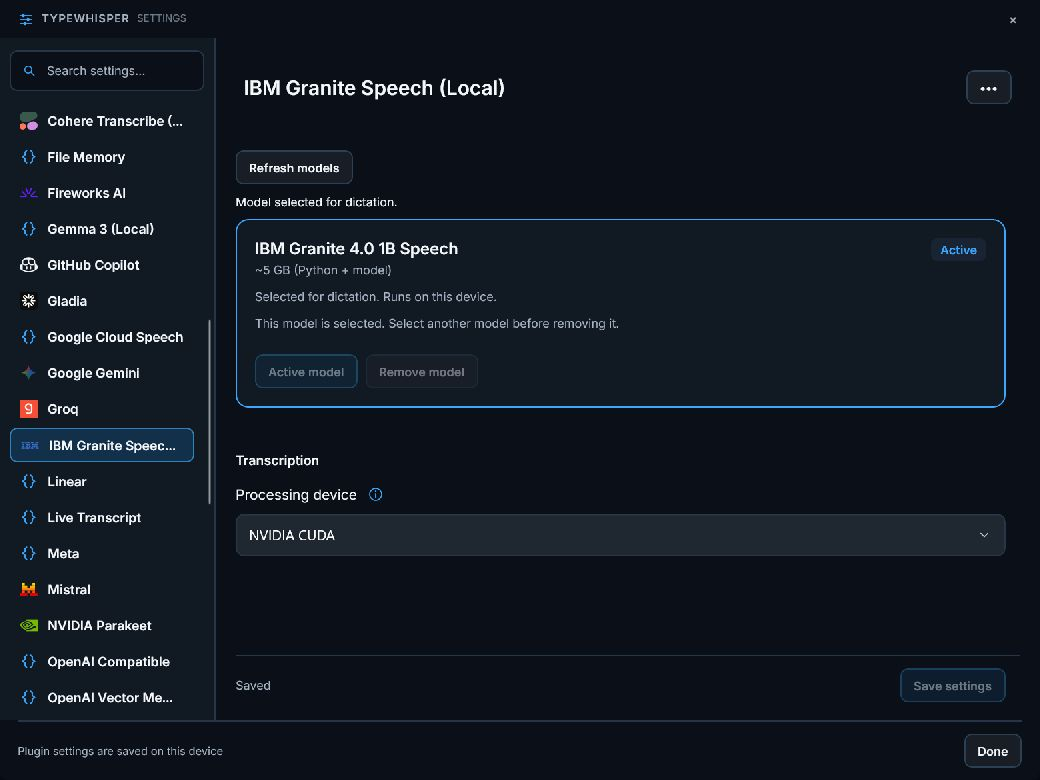
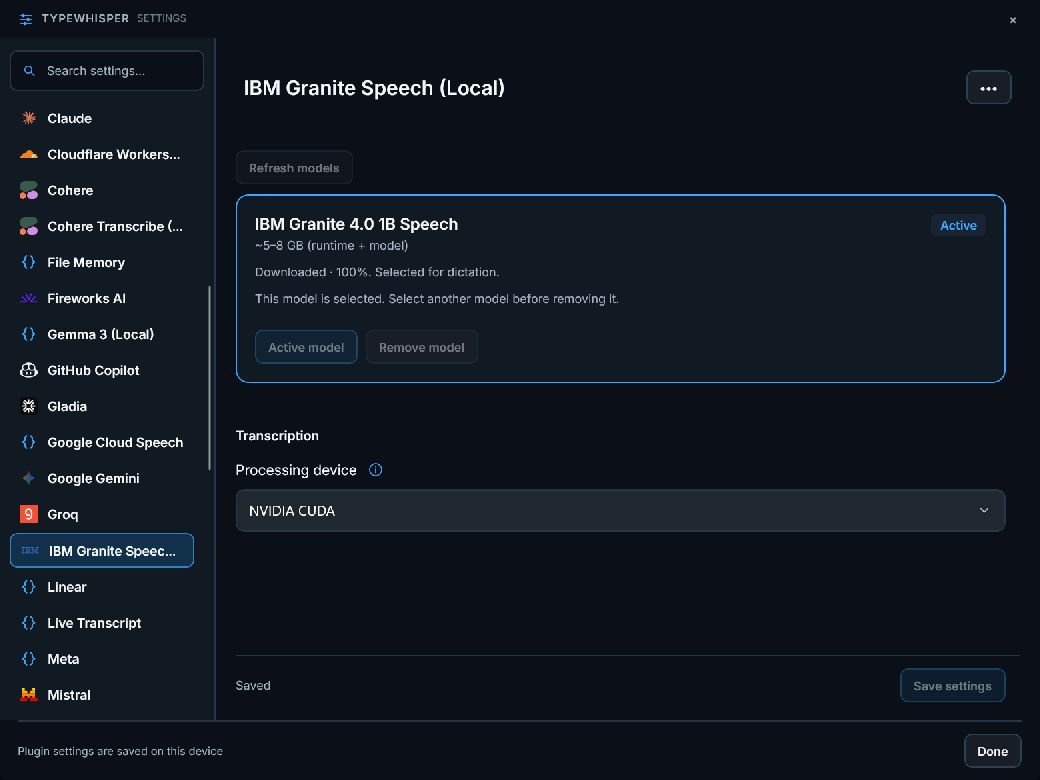
Record Granite microphone acceptance and recognition quality limitation

Changed region(s): [[0.2154, 0.1846, 0.9846, 0.5231], [0.0, 0.1231, 0.1846, 0.9231], [0.2154, 0.5538, 0.9846, 0.7385]]

diff --git a/plugins-v2/TypeWhisper.Plugin.GraniteSpeech/README.md b/plugins-v2/TypeWhisper.Plugin.GraniteSpeech/README.md
@@ -28,7 +28,11 @@ dotnet test plugins-v2/TypeWhisper.Plugin.GraniteSpeech/Tests -c Release
 
 The complete package is staged under `bin/Release/portable-host/Plugins/com.typewhisper.granite-speech` inside the plugin project. Package that directory as the ZIP root.
 
-8 .NET plugin tests and one Python setup test pass. Coverage includes saved device selection, invalid/canceled PCM, managed asset removal that preserves settings, packaged scripts, and pinned chat-template downloads with byte-based progress. Native acceptance installed matching PyTorch/torchaudio 2.11.0 CUDA packages, downloaded the pinned IBM model, and correctly transcribed synthetic English audio. Cold load plus transcription took 8.81 seconds; warm two- and five-second PCM previews took 0.44 and 1.08 seconds on the development machine. Manual microphone and visual UI acceptance remain pending. All packages have isolated install, enable, restart, disable, uninstall and reinstall coverage through the real portable package loader and host services.
+8 .NET plugin tests and one Python setup test pass. Coverage includes saved device selection, invalid/canceled PCM, managed asset removal that preserves settings, packaged scripts, and pinned chat-template downloads with byte-based progress. Native acceptance installed matching PyTorch/torchaudio 2.11.0 CUDA packages, downloaded the pinned IBM model, and correctly transcribed synthetic English audio. Cold load plus transcription took 8.81 seconds; warm two- and five-second PCM previews took 0.44 and 1.08 seconds on the development machine. All packages have isolated install, enable, restart, disable, uninstall and reinstall coverage through the real portable package loader and host services.
+
+Manual microphone testing confirmed that live preview and final transcription after stopping both work. The tester nevertheless reported poor recognition quality in the final text. German was selected and the language hint is passed through the host and sidecar. The cause has not been established; this is functional acceptance, not a transcription-quality pass. Visual checks confirmed the provider icon, shared Save button, CUDA selection, enabled live preview, and completed download status. The shared model-card design is maintained on the separate `seofood/local-model-settings-ui` branch.
+
+Settings screenshots: [model and device settings](../../docs/screenshots/granite/settings-dark.png), [enabled live preview](../../docs/screenshots/granite/live-enabled.png).
 
 The ZIP was installed and loaded in the WinUI development profile, preserving existing installation receipts. No credentials were copied from the legacy profile.
 
